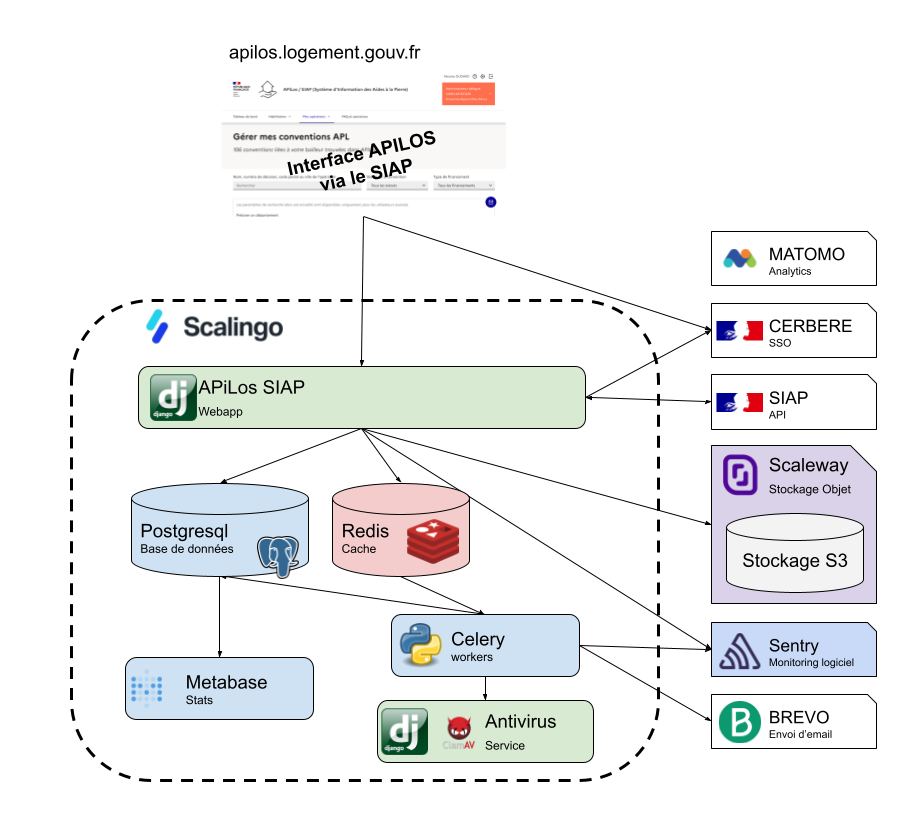
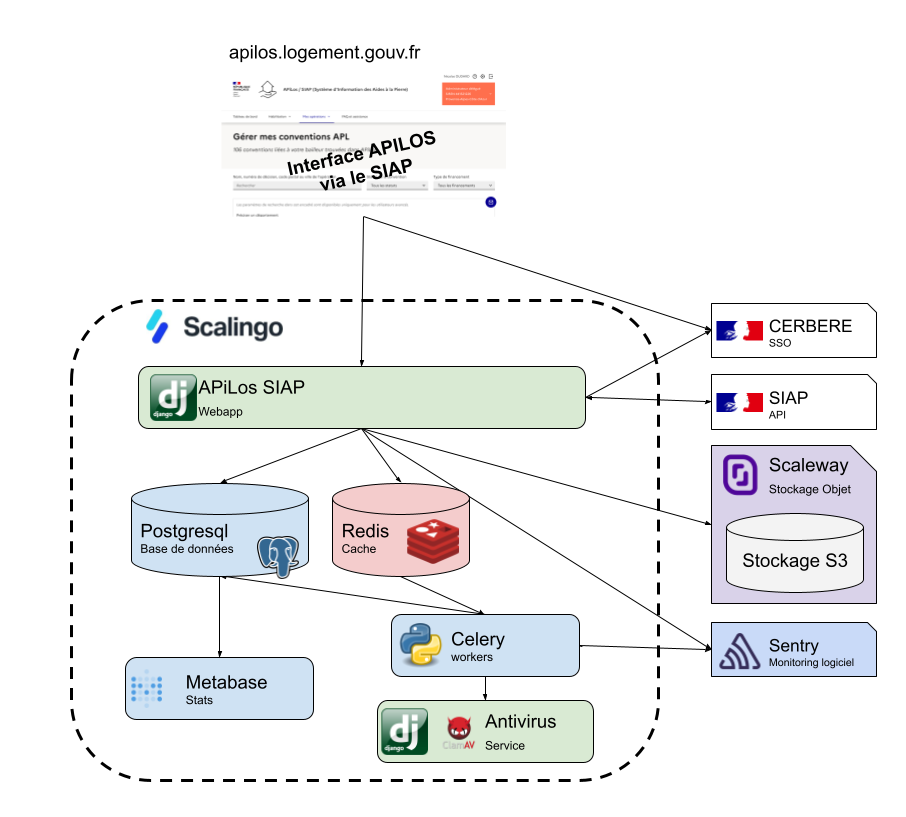
update architecture (#2139)

Changed region(s): [[0.7726, 0.8568, 0.9272, 0.918], [0.7726, 0.2754, 0.9272, 0.3366]]

diff --git a/docs/README.md b/docs/README.md
@@ -38,9 +38,9 @@ Les solutions tierces utilisées par APiLos:
 - CERBERE : SSO - Authentification des utilisateurs
 - Scalingo : hébergement de la solution (cloud souverain)
 - Scaleway : stockage de fichiers compatible avec le protocole S3
-- Brevo : envoi de courriels transactionnels (En cours de dépréciation)
 - Sentry : monitoring logiciel
 - Github : gestion des versions du code source d’ APiLos et chaîne de tests et de mise en production (CI/CD)
+> - Brevo : Déprécié. Code legacy toujours présent (en attente de suppression ou de migration).
 
 ### Qualité de code
 
@@ -95,9 +95,6 @@ Pour en plus de détails, merci de se référer à la documentation sur [DEPLOIE
 
 Trouver les détails d'installation de l'application en local pour le développement et les détails techniques sur la documentation dédiée : [DEVELOPPEUR.md](DEVELOPPEUR.md)
 
-### Envoi de mails
-
-Nous utilisons [Brevo](https://app.brevo.com/) (anciennement sendinblue). Si la variable d'environnement SENDINBLUE_API_KEY est configurée, le backend email SendInBlue est utilisé. Sinon, le backend email console est utilisé et les emails sont imprimés dans a console (dans les logs)
 
 ### DNS (uniquement pour la gestion des emails et emailists)
 
@@ -211,12 +208,12 @@ Tous les détails concernant les interactions entre APiLos et la platefome SIAP 
 
 ## Protection des données
 
-Les CGU sont publiés [sur le site APiLos](https://apilos.beta.gouv.fr/cgu) et inclus les obligations relatives au RGPD
-Le rapport d'accessibilité est publié [sur le site APiLos](https://apilos.beta.gouv.fr/accessibilite)
+Les CGU sont publiés [sur le site APiLos](https://apilos.logement.gouv.fr/cgu) et inclus les obligations relatives au RGPD
+Le rapport d'accessibilité est publié [sur le site APiLos](https://apilos.logement.gouv.fr/accessibilite)
 
 ## Statistique de la plateforme
 
-Les statistiques d'usage et le suivi des KPIs de la start up d'état sont disponibles sur la [page de statistique](https://apilos.beta.gouv.fr/stats)
+Les statistiques d'usage et le suivi des KPIs de la start up d'état sont disponibles sur la [page de statistique](https://apilos.logement.gouv.fr/stats)
 
 ## Administration métier
 
